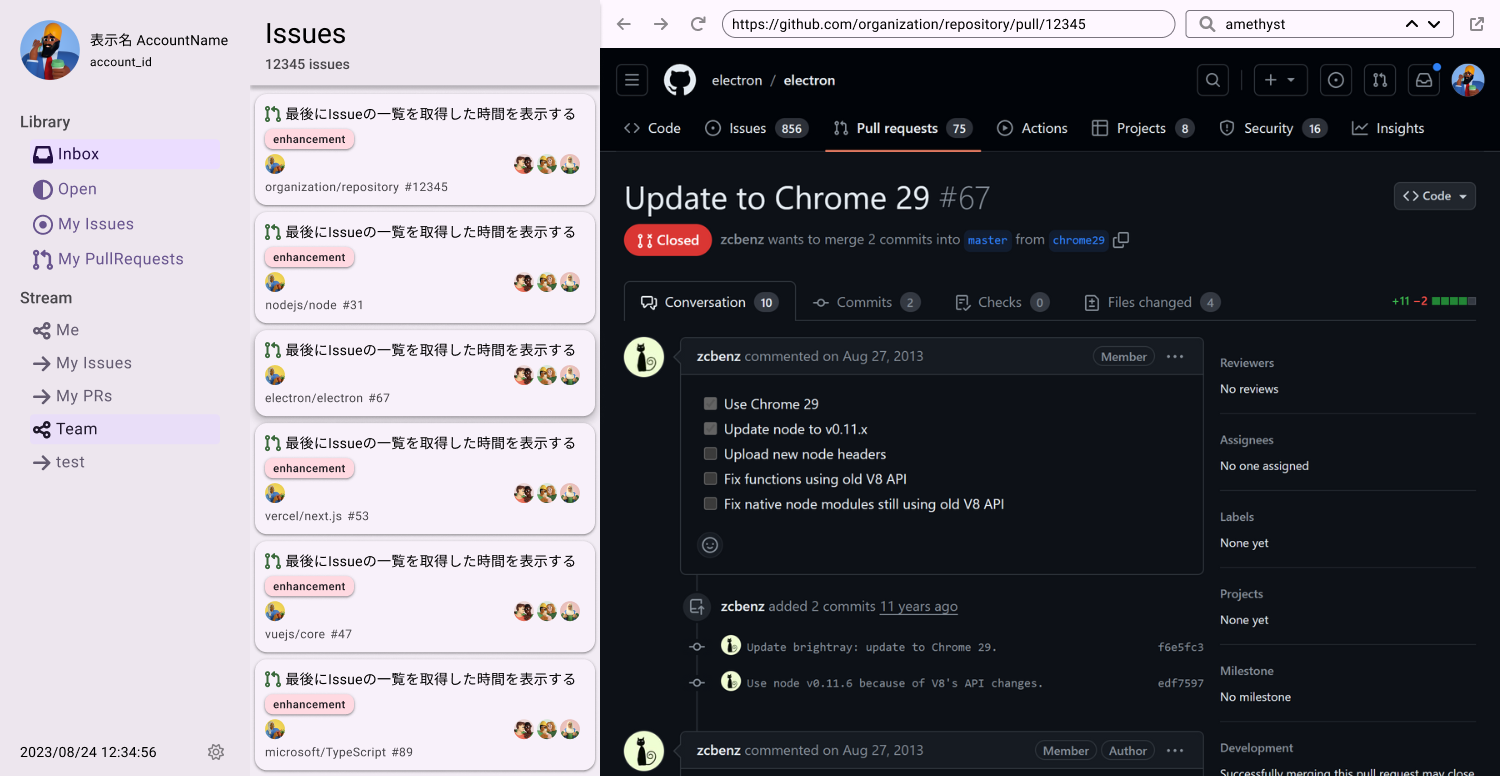
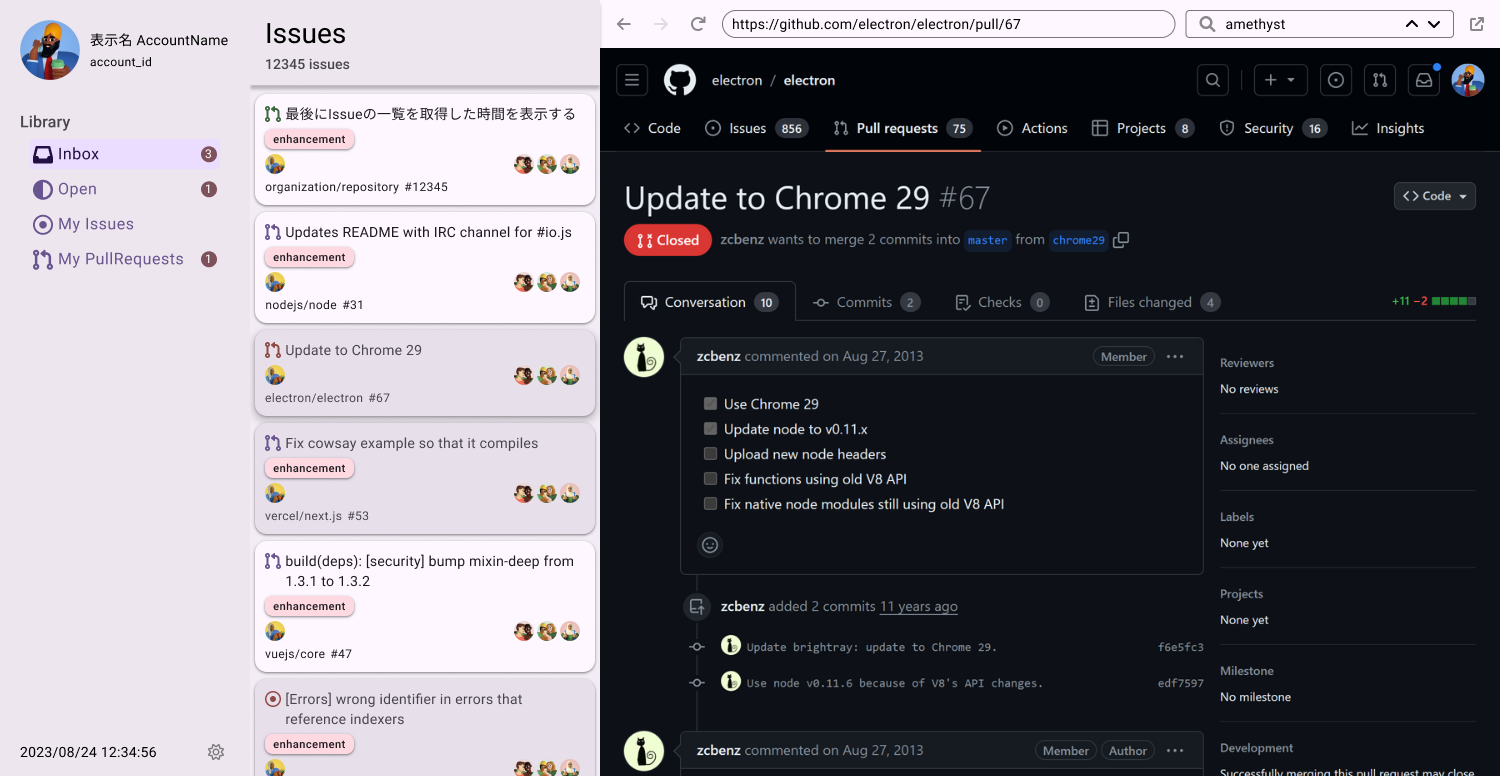
既読・未読機能の表示を調整 (#57)
* Figmaに合わせて既読時のCardの色味を修正

* 未読のIssueをカウントして表示する

* 未読の数をFigma通りに表示する

diff --git a/renderer/context/IssueFilterContext.ts b/renderer/context/IssueFilterContext.ts
@@ -8,19 +8,23 @@ import {
 import { faCircleDot } from '@fortawesome/free-regular-svg-icons';
 import { safeUnreachable } from '../utils/typescript';
 import type { UserInfo } from '../../types/User';
-import type { Issue } from '../../types/Issue';
+import type { Issue, IssueSupplementMap } from '../../types/Issue';
 
 export const issueFilterAll: IssueFilter = {
 	type: 'all',
 	title: 'Inbox',
 	icon: faInbox,
 	filter: (_issue, _option) => true,
+	count: (issues, map, option) =>
+		countUnreadIssues(issueFilterAll, issues, map, option),
 } as const;
 export const issueFilterOpen: IssueFilter = {
 	type: 'open',
 	title: 'Open',
 	icon: faCircleHalfStroke,
 	filter: (issue, _option) => ['open', 'draft'].includes(issue.state.state),
+	count: (issues, map, option) =>
+		countUnreadIssues(issueFilterOpen, issues, map, option),
 } as const;
 export const issueFilterMyIssues: IssueFilter = {
 	type: 'my-issues',
@@ -28,6 +32,8 @@ export const issueFilterMyIssues: IssueFilter = {
 	icon: faCircleDot,
 	filter: (issue, { user }) =>
 		issue.state.type === 'issue' && checkOwnIssue(issue, user),
+	count: (issues, map, option) =>
+		countUnreadIssues(issueFilterMyIssues, issues, map, option),
 } as const;
 export const issueFilterMyPr: IssueFilter = {
 	type: 'my-pr',
@@ -35,6 +41,8 @@ export const issueFilterMyPr: IssueFilter = {
 	icon: faCodePullRequest,
 	filter: (issue, { user }) =>
 		issue.state.type === 'pull-request' && checkOwnIssue(issue, user),
+	count: (issues, map, option) =>
+		countUnreadIssues(issueFilterMyPr, issues, map, option),
 } as const;
 export const issueFilters: IssueFilter[] = [
 	issueFilterAll,
@@ -56,6 +64,11 @@ export interface IssueFilter {
 	readonly title: string;
 	readonly icon: IconDefinition;
 	readonly filter: (issue: Issue, option: IssueFilterOption) => boolean;
+	readonly count: (
+		issues: Issue[],
+		map: IssueSupplementMap,
+		option: IssueFilterOption,
+	) => number;
 }
 
 export const fromFilterType = (type: IssueFilterTypes): IssueFilter => {
@@ -78,4 +91,15 @@ const checkOwnIssue = (issue: Issue, user: UserInfo | null) => {
 		return false;
 	}
 	return issue.creator.login === user.login;
+};
+
+const countUnreadIssues = (
+	issueFilter: IssueFilter,
+	issues: Issue[],
+	map: IssueSupplementMap,
+	option: IssueFilterOption,
+): number => {
+	return issues
+		.filter((issue) => issueFilter.filter(issue, option))
+		.filter((issue) => map[issue.key]?.isRead !== true).length;
 };

diff --git a/renderer/components/Menu.tsx b/renderer/components/Menu.tsx
@@ -4,11 +4,13 @@ import {
 	ColorModeContext,
 	ColorModeDispatchContext,
 } from '../context/ColorModeContext';
+import { IssueListContext } from '../context/IssueContext';
 import {
 	IssueFilterContext,
 	IssueFilterDispatchContext,
 	issueFilters,
 } from '../context/IssueFilterContext';
+import { IssueSupplementMapContext } from '../context/IssueSupplementMapContext';
 import { UserInfoContext } from '../context/UserContext';
 import type { UserInfo } from '../../types/User';
 
@@ -28,6 +30,7 @@ import { faSun } from '@fortawesome/free-regular-svg-icons';
 import { faMoon } from '@fortawesome/free-solid-svg-icons';
 import { Heading } from './Heading';
 import surface from '../styles/colors/surface';
+import tertiary from '../styles/colors/tertiary';
 
 const Menu = () => {
 	const colorMode = useContext(ColorModeContext);
@@ -48,7 +51,7 @@ const Menu = () => {
 				メニュー
 			</Heading>
 			{userInfo ? <User user={userInfo} /> : <Grid item></Grid>}
-			<Filters />
+			<Filters user={userInfo} />
 			<UpdatedAt />
 		</Grid>
 	);
@@ -77,9 +80,12 @@ const User = ({ user }: { user: UserInfo }) => (
 	</Grid>
 );
 
-const Filters = () => {
+const Filters = ({ user }: { user: UserInfo | null }) => {
+	const colorMode = useContext(ColorModeContext);
 	const issueFilter = useContext(IssueFilterContext);
 	const issueFilterDispatch = useContext(IssueFilterDispatchContext);
+	const issues = useContext(IssueListContext);
+	const issueSupplementMap = useContext(IssueSupplementMapContext);
 
 	return (
 		<Grid container item width="100%">
@@ -99,6 +105,22 @@ const Filters = () => {
 									<FontAwesomeIcon icon={filter.icon} />
 								</ListItemIcon>
 								<ListItemText primary={filter.title} />
+								{issues && user ? (
+									<ListItemText
+										primary={filter.count(issues, issueSupplementMap, { user })}
+										sx={{
+											color: tertiary[colorMode].on,
+											bgcolor: tertiary[colorMode].main,
+											px: 1,
+											borderRadius: 3,
+											minWidth: '1lh',
+											flex: 'initial',
+											textAlign: 'center',
+										}}
+									/>
+								) : (
+									<></>
+								)}
 							</ListItemButton>
 						</ListItem>
 					))}

diff --git a/renderer/components/IssueCard.tsx b/renderer/components/IssueCard.tsx
@@ -1,5 +1,6 @@
 import { useContext } from 'react';
 import type { MouseEvent } from 'react';
+import { ColorModeContext } from '../context/ColorModeContext';
 import { IssueContext, IssueDispatchContext } from '../context/IssueContext';
 import { safeUnreachable } from '../utils/typescript';
 import type {
@@ -25,7 +26,7 @@ import {
 } from '@fortawesome/free-solid-svg-icons';
 import { faCircleDot } from '@fortawesome/free-regular-svg-icons';
 import { githubColor } from '../styles/colors/github';
-import { grey } from '@mui/material/colors';
+import surfaceColor from '../styles/colors/surface';
 
 export const IssueCard = ({
 	issue,
@@ -34,6 +35,7 @@ export const IssueCard = ({
 	issue: Issue;
 	supplement?: IssueSupplementMapData;
 }) => {
+	const colorMode = useContext(ColorModeContext);
 	const selectedIssue = useContext(IssueContext);
 	const dispatch = useContext(IssueDispatchContext);
 	const handleClick = (e: MouseEvent) => {
@@ -48,7 +50,15 @@ export const IssueCard = ({
 			sx={{
 				width: '100%',
 				m: 0.5,
-				...(supplement?.isRead ? { bgcolor: grey[200] } : {}),
+				...(supplement?.isRead
+					? {
+							color: surfaceColor.variant[colorMode].on,
+							bgcolor: surfaceColor.variant[colorMode].main,
+						}
+					: {
+							color: surfaceColor[colorMode].on,
+							bgcolor: surfaceColor[colorMode].main,
+						}),
 			}}
 		>
 			<CardActionArea onClick={handleClick}>

diff --git a/renderer/pages/index.tsx b/renderer/pages/index.tsx
@@ -12,7 +12,11 @@ import type { UserInfo } from '../../types/User';
 
 import { Box, Grid } from '@mui/material';
 import { ColorModeContext } from '../context/ColorModeContext';
-import { IssueContext, IssueDispatchContext } from '../context/IssueContext';
+import {
+	IssueListContext,
+	IssueContext,
+	IssueDispatchContext,
+} from '../context/IssueContext';
 import {
 	IssueFilterContext,
 	IssueFilterDispatchContext,
@@ -120,17 +124,24 @@ const IssueFilterContextProvider = ({ children }: { children: ReactNode }) => {
 };
 
 const IssueContextProvider = ({ children }: { children: ReactNode }) => {
+	const [issues, setIssues] = useState<Issue[] | null>(null);
 	const [issue, dispatch] = useReducer<Reducer<Issue | null, Issue>>(
 		(_prevIssue, currentIssue) => currentIssue,
 		null,
 	);
 
+	useEffect(() => {
+		window.electron?.pushIssues((issues) => setIssues(issues));
+	}, []);
+
 	return (
-		<IssueContext.Provider value={issue}>
-			<IssueDispatchContext.Provider value={dispatch}>
-				{children}
-			</IssueDispatchContext.Provider>
-		</IssueContext.Provider>
+		<IssueListContext.Provider value={issues}>
+			<IssueContext.Provider value={issue}>
+				<IssueDispatchContext.Provider value={dispatch}>
+					{children}
+				</IssueDispatchContext.Provider>
+			</IssueContext.Provider>
+		</IssueListContext.Provider>
 	);
 };
 

diff --git a/renderer/components/IssueList.tsx b/renderer/components/IssueList.tsx
@@ -1,5 +1,6 @@
-import { useContext, useEffect, useState } from 'react';
+import { useContext } from 'react';
 import { ColorModeContext } from '../context/ColorModeContext';
+import { IssueListContext } from '../context/IssueContext';
 import { IssueFilterContext } from '../context/IssueFilterContext';
 import { IssueSupplementMapContext } from '../context/IssueSupplementMapContext';
 import { UserInfoContext } from '../context/UserContext';
@@ -15,10 +16,7 @@ import surface from '../styles/colors/surface';
 const numberFormat = Intl.NumberFormat('ja-JP');
 
 const IssueList = () => {
-	const [issues, setIssues] = useState<Issue[] | null>(null);
-	useEffect(() => {
-		window.electron?.pushIssues((issues) => setIssues(() => issues));
-	}, []);
+	const issues = useContext(IssueListContext);
 
 	return (
 		<Grid

diff --git a/renderer/context/ColorModeContext.ts b/renderer/context/ColorModeContext.ts
@@ -4,6 +4,7 @@ import { grey } from '@mui/material/colors';
 import { error } from '../styles/colors/error';
 import { primary } from '../styles/colors/primary';
 import { secondary } from '../styles/colors/secondary';
+import { tertiary } from '../styles/colors/tertiary';
 
 export const ColorModeContext = createContext<PaletteMode>('light');
 export const ColorModeDispatchContext = createContext<Dispatch<PaletteMode>>(
@@ -21,6 +22,12 @@ export const colorSetting: PaletteOptions = {
 		main: secondary.key,
 		light: secondary.light.main,
 		dark: secondary.dark.main,
+		contrastText: '#000',
+	},
+	tertiary: {
+		main: tertiary.key,
+		light: tertiary.light.main,
+		dark: tertiary.dark.main,
 		contrastText: '#000',
 	},
 	error: {

diff --git a/renderer/context/IssueContext.ts b/renderer/context/IssueContext.ts
@@ -1,5 +1,6 @@
 import { Dispatch, createContext } from 'react';
 import { Issue } from '../../types/Issue';
 
+export const IssueListContext = createContext<Issue[] | null>(null);
 export const IssueContext = createContext<Issue | null>(null);
 export const IssueDispatchContext = createContext<Dispatch<Issue>>((_v) => {});

diff --git a/renderer/styles/mui.d.ts b/renderer/styles/mui.d.ts
@@ -2,9 +2,11 @@ import '@mui/material';
 
 declare module '@mui/material/styles' {
 	interface Palette {
+		tertiary: Palette['primary'];
 		ordinarily: Palette['primary'];
 	}
 	interface PaletteOptions {
+		tertiary?: PaletteOptions['primary'];
 		ordinarily?: PaletteOptions['primary'];
 	}
 }

diff --git a/renderer/styles/colors/tertiary.ts b/renderer/styles/colors/tertiary.ts
@@ -1,4 +1,5 @@
 export const tertiary = {
+	key: '#C17E8F',
 	light: {
 		main: '#815252',
 		on: '#FFFFFF',
